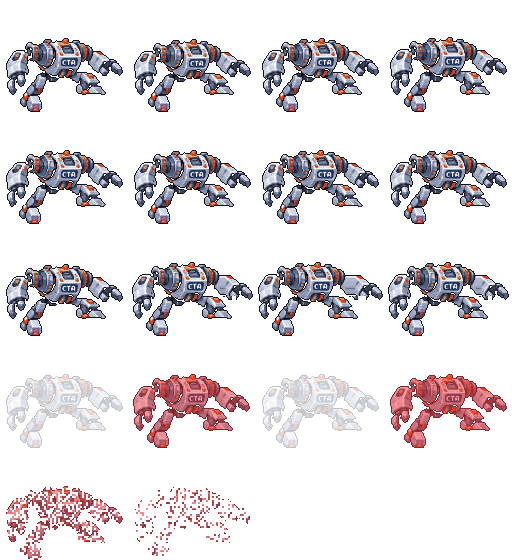
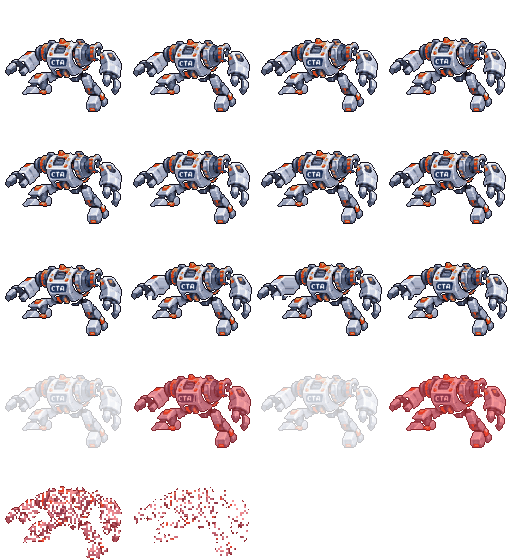
Boss arena: put the boss object's bottom edge on the arena floor so the EL-iminator spawns; boss art faces left with readable CTA plate
The loop-boss boss object spanned the full map height, so the boss spawned inside
the floor girders and fell out of the world. Boss atlas is now mirrored (with the
chest plate un-mirrored) and Enemy supports artFacesLeft.

Claude-Session: https://claude.ai/code/session_01YMm4GmncJ8U4FPECy6uPid

diff --git a/src/game/entities/Enemy.ts b/src/game/entities/Enemy.ts
@@ -24,6 +24,8 @@ export interface EnemyConfig {
   coins?: number;
   /** Texture atlas key (defaults to kind). */
   atlas?: string;
+  /** The atlas is drawn facing LEFT (default: right). */
+  artFacesLeft?: boolean;
   /** Placeholder frame size if atlas missing. */
   frameSize?: { w: number; h: number };
   /** Distance (px) from the frame bottom up to the body bottom (flyers whose art hangs below the hitbox). */
@@ -143,7 +145,7 @@ export abstract class Enemy extends Phaser.Physics.Arcade.Sprite {
     }
     this.think(delta);
     if (!this.active) return;
-    this.setFlipX(this.facing === -1);
+    this.setFlipX(this.cfg.artFacesLeft ? this.facing === 1 : this.facing === -1);
   }
 
   /** AI per frame. */

diff --git a/src/game/enemies/Eliminator.ts b/src/game/enemies/Eliminator.ts
@@ -60,7 +60,7 @@ export class Eliminator extends Boss {
     super(
       ctx,
       { ...spawn, x: bx, y: arena.bottom },
-      { kind: 'eliminator', hp: 12, contactDamage: 1, stompable: true, body: STAND, gravity: true, frameSize: ENEMY_FRAME_SIZE.eliminator },
+      { kind: 'eliminator', hp: 12, contactDamage: 1, stompable: true, artFacesLeft: true, body: STAND, gravity: true, frameSize: ENEMY_FRAME_SIZE.eliminator },
       arena,
       [Math.round((stats.hp * 2) / 3), Math.round(stats.hp / 3)],
     );

diff --git a/tools/art/extract_enemies.py b/tools/art/extract_enemies.py
@@ -345,6 +345,39 @@ def process(kind: str, sheets: dict[str, np.ndarray]):
     return frames, scale
 
 
+# Atlases drawn facing LEFT (Enemy reads `artFacesLeft` from EnemyConfig). The boss is
+# mirrored so it can face the player without its chest "CTA" plate reading backwards.
+FACES_LEFT = {'eliminator'}
+PLATE_COLORS = np.array([[0x25, 0x38, 0x5e], [0x18, 0x2b, 0x55]])
+
+
+def plate_bbox(frame: np.ndarray):
+    """Bounding box (x0, x1, y0, y1) of the navy CTA plate in a frame, or None."""
+    rgb = frame[..., :3].astype(int)
+    mask = (frame[..., 3] > 0) & np.any(np.all(np.abs(rgb[:, :, None, :] - PLATE_COLORS[None, None]) <= 6, axis=-1), axis=-1)
+    ys, xs = np.nonzero(mask)
+    if len(xs) < 40:
+        return None
+    cx, cy = int(np.median(xs)), int(np.median(ys))
+    sel = (np.abs(xs - cx) <= 12) & (np.abs(ys - cy) <= 6)
+    return xs[sel].min(), xs[sel].max(), ys[sel].min(), ys[sel].max()
+
+
+def face_left_keep_label(frames: dict[str, np.ndarray]) -> dict[str, np.ndarray]:
+    """Mirror every frame horizontally, then un-mirror the CTA plate so its text reads.
+    Tinted/flashed frames (plate colour changed) reuse the plate box of idle_0."""
+    fallback = plate_bbox(frames['idle_0'][:, ::-1])
+    out = {}
+    for name, frame in frames.items():
+        m = frame[:, ::-1].copy()
+        box = plate_bbox(m) or (fallback if not name.startswith('die_') or name in ('die_0', 'die_1') else None)
+        if box:
+            x0, x1, y0, y1 = box
+            m[y0:y1 + 1, x0:x1 + 1] = m[y0:y1 + 1, x0:x1 + 1][:, ::-1].copy()
+        out[name] = m
+    return out
+
+
 def main():
     sheets = {k: load(v) for k, v in SHEETS.items()}
     only = sys.argv[1:]
@@ -353,6 +386,8 @@ def main():
         if only and kind not in only:
             continue
         frames, scale = process(kind, sheets)
+        if kind in FACES_LEFT:
+            frames = face_left_keep_label(frames)
         write_atlas(OUT / 'enemies' / kind, frames)
         rows.append((kind, list(frames.items())))
         print(f'{kind}: scale {scale:.2f}, {len(frames)} frames {SPECS[kind]["frame"]}')
